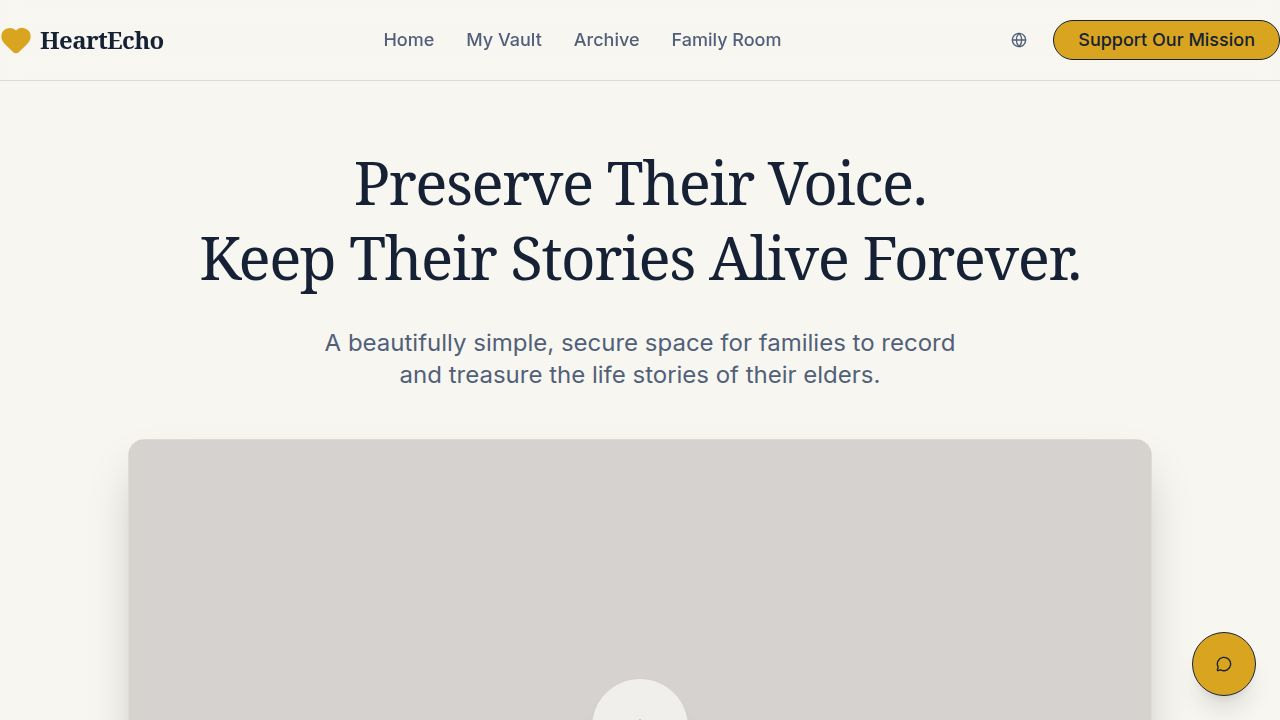
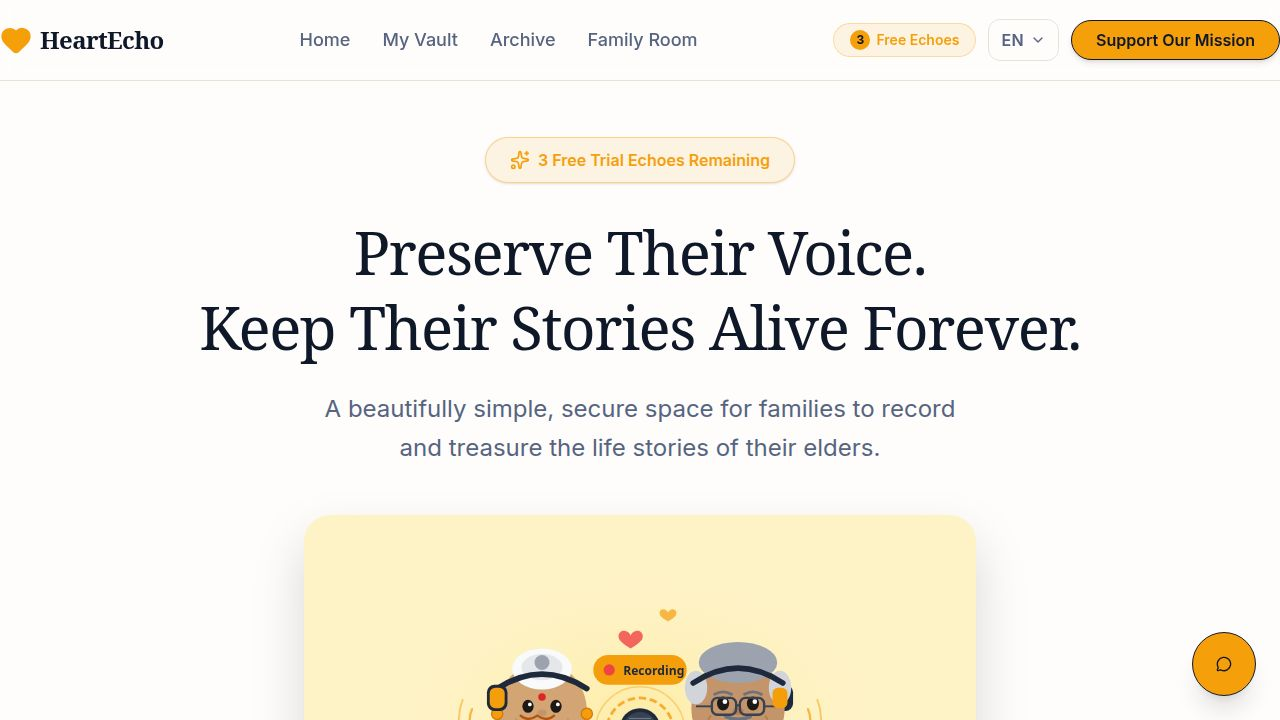
Separate language context and provider to fix update issues
Split `LanguageContext.tsx` into `LanguageContext.tsx` and `LanguageProvider.tsx`. Updated `App.tsx` to import from the new `LanguageProvider.tsx`.

Replit-Commit-Author: Agent
Replit-Commit-Session-Id: d1a16142-52a2-40c7-8282-7f26dee829ad
Replit-Commit-Checkpoint-Type: full_checkpoint
Replit-Commit-Event-Id: 83154ced-02bc-460c-a2ef-f6c276db9dbb
Replit-Commit-Screenshot-Url: https://storage.googleapis.com/screenshot-production-us-central1/cd559a2a-86e0-4b8b-bc4f-917876e254f1/d1a16142-52a2-40c7-8282-7f26dee829ad/7dE0WGL
Replit-Helium-Checkpoint-Created: true

diff --git a/artifacts/heartecho/src/contexts/LanguageContext.tsx b/artifacts/heartecho/src/contexts/LanguageContext.tsx
@@ -1,4 +1,4 @@
-import { createContext, useContext, useState, type ReactNode } from "react";
+import { createContext, useContext } from "react";
 
 export type Language = "en" | "es" | "hi";
 
@@ -255,24 +255,8 @@ interface LanguageContextValue {
   useFreeTrialEcho: () => void;
 }
 
-const LanguageContext = createContext<LanguageContextValue | null>(null);
-
-export function LanguageProvider({ children }: { children: ReactNode }) {
-  const [language, setLanguage] = useState<Language>("en");
-  const [freeTrialEchoes, setFreeTrialEchoes] = useState(3);
-
-  const useFreeTrialEcho = () => {
-    setFreeTrialEchoes((prev) => Math.max(0, prev - 1));
-  };
-
-  const t = translations[language] as unknown as Translations;
-
-  return (
-    <LanguageContext.Provider value={{ language, setLanguage, t, freeTrialEchoes, useFreeTrialEcho }}>
-      {children}
-    </LanguageContext.Provider>
-  );
-}
+export const LanguageContext = createContext<LanguageContextValue | null>(null);
+export { translations };
 
 export function useLanguage() {
   const ctx = useContext(LanguageContext);

diff --git a/artifacts/heartecho/src/contexts/LanguageProvider.tsx b/artifacts/heartecho/src/contexts/LanguageProvider.tsx
@@ -1,0 +1,19 @@
+import { useState, type ReactNode } from "react";
+import { LanguageContext, type Language, translations, type Translations } from "./LanguageContext";
+
+export function LanguageProvider({ children }: { children: ReactNode }) {
+  const [language, setLanguage] = useState<Language>("en");
+  const [freeTrialEchoes, setFreeTrialEchoes] = useState(3);
+
+  const useFreeTrialEcho = () => {
+    setFreeTrialEchoes((prev) => Math.max(0, prev - 1));
+  };
+
+  const t = translations[language] as unknown as Translations;
+
+  return (
+    <LanguageContext.Provider value={{ language, setLanguage, t, freeTrialEchoes, useFreeTrialEcho }}>
+      {children}
+    </LanguageContext.Provider>
+  );
+}

diff --git a/artifacts/heartecho/src/App.tsx b/artifacts/heartecho/src/App.tsx
@@ -3,7 +3,7 @@ import { QueryClient, QueryClientProvider } from "@tanstack/react-query";
 import { Toaster } from "@/components/ui/toaster";
 import { TooltipProvider } from "@/components/ui/tooltip";
 import NotFound from "@/pages/not-found";
-import { LanguageProvider } from "@/contexts/LanguageContext";
+import { LanguageProvider } from "@/contexts/LanguageProvider";
 
 import Navbar from "@/components/layout/Navbar";
 import Footer from "@/components/layout/Footer";